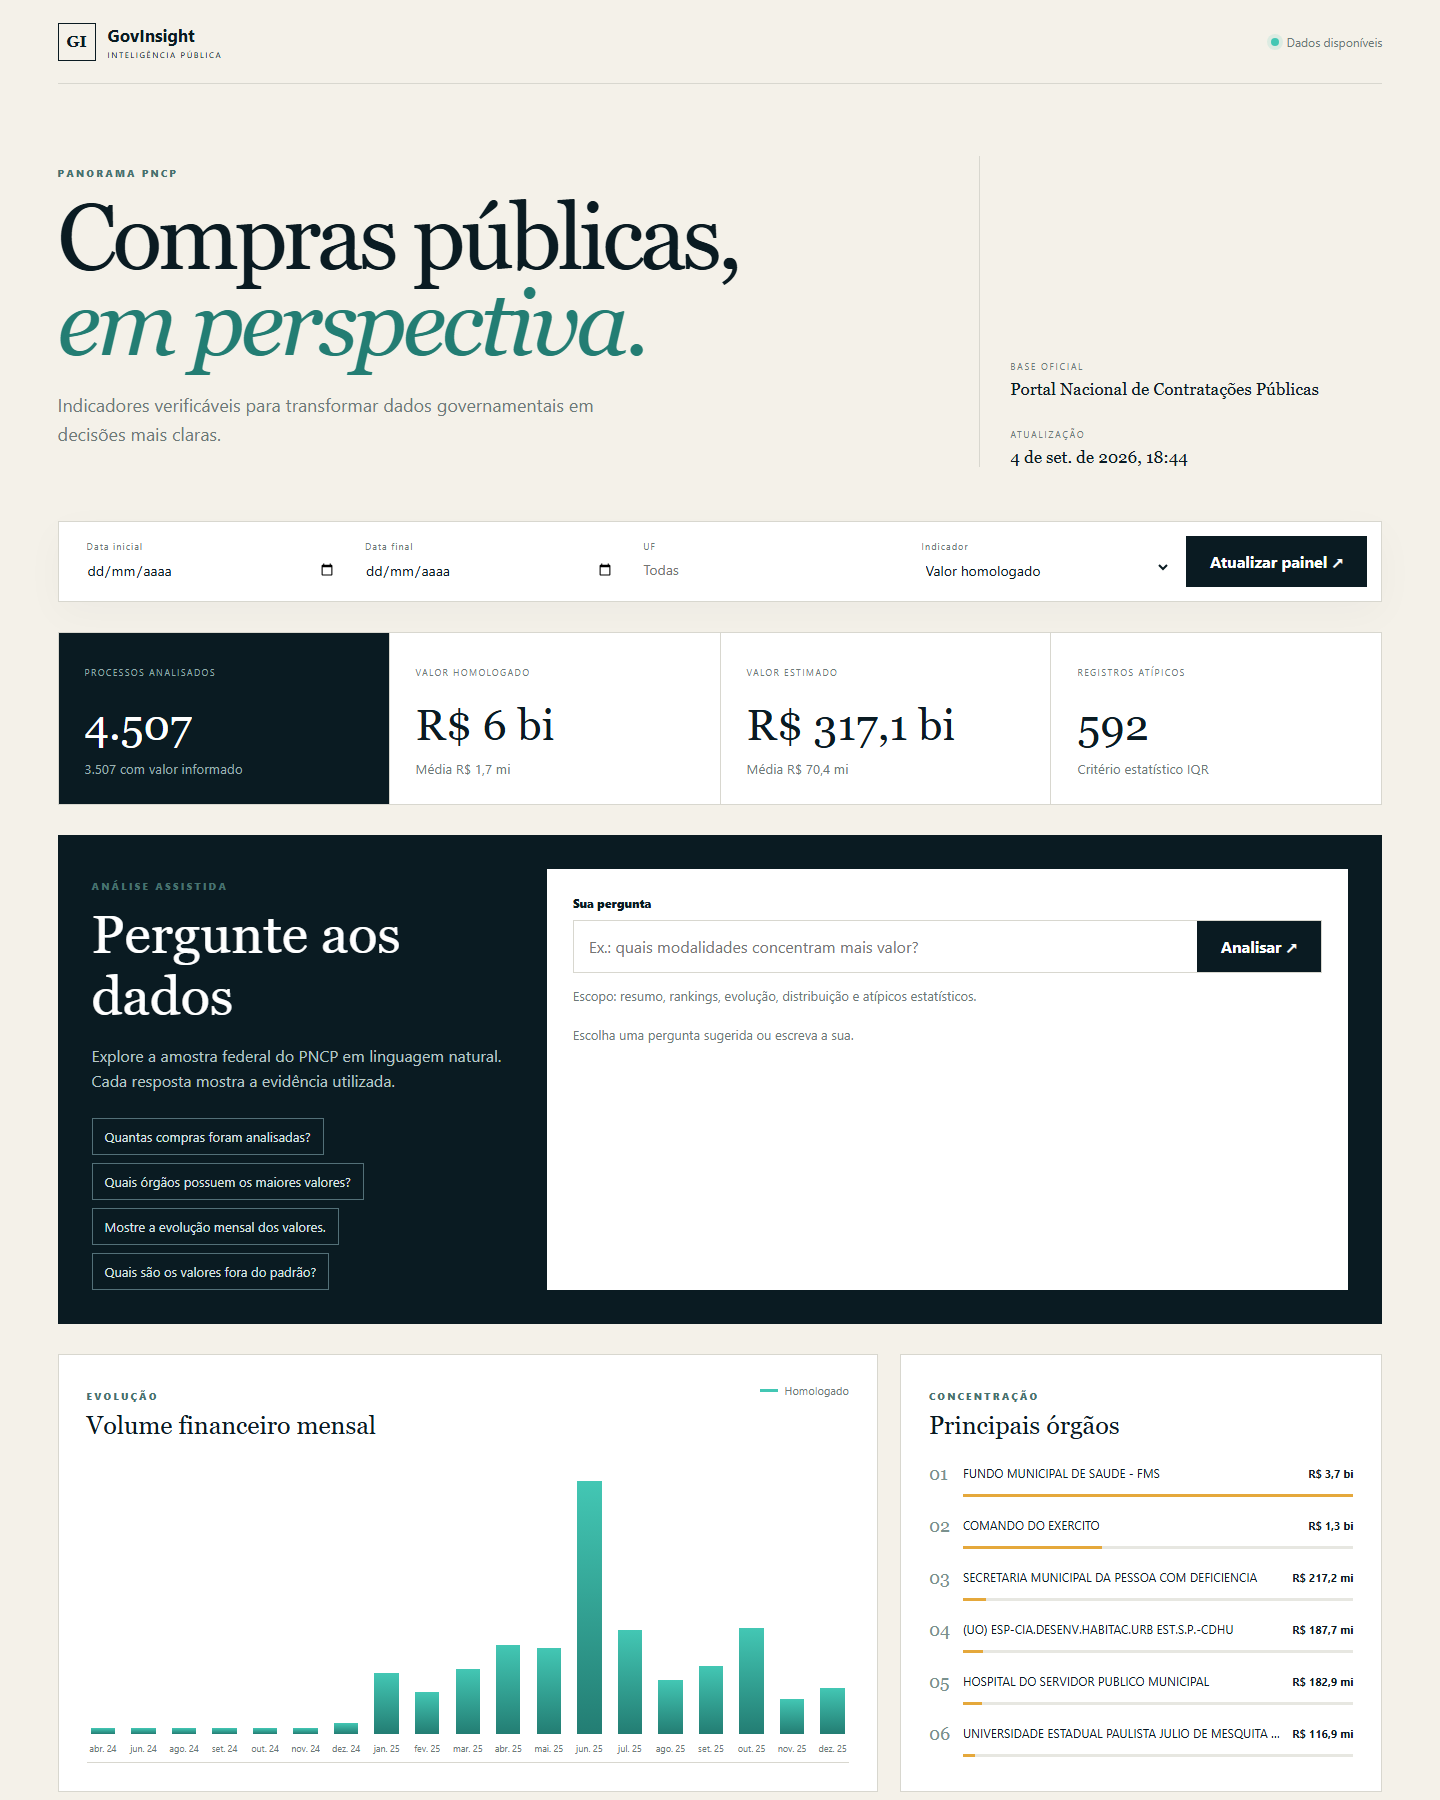
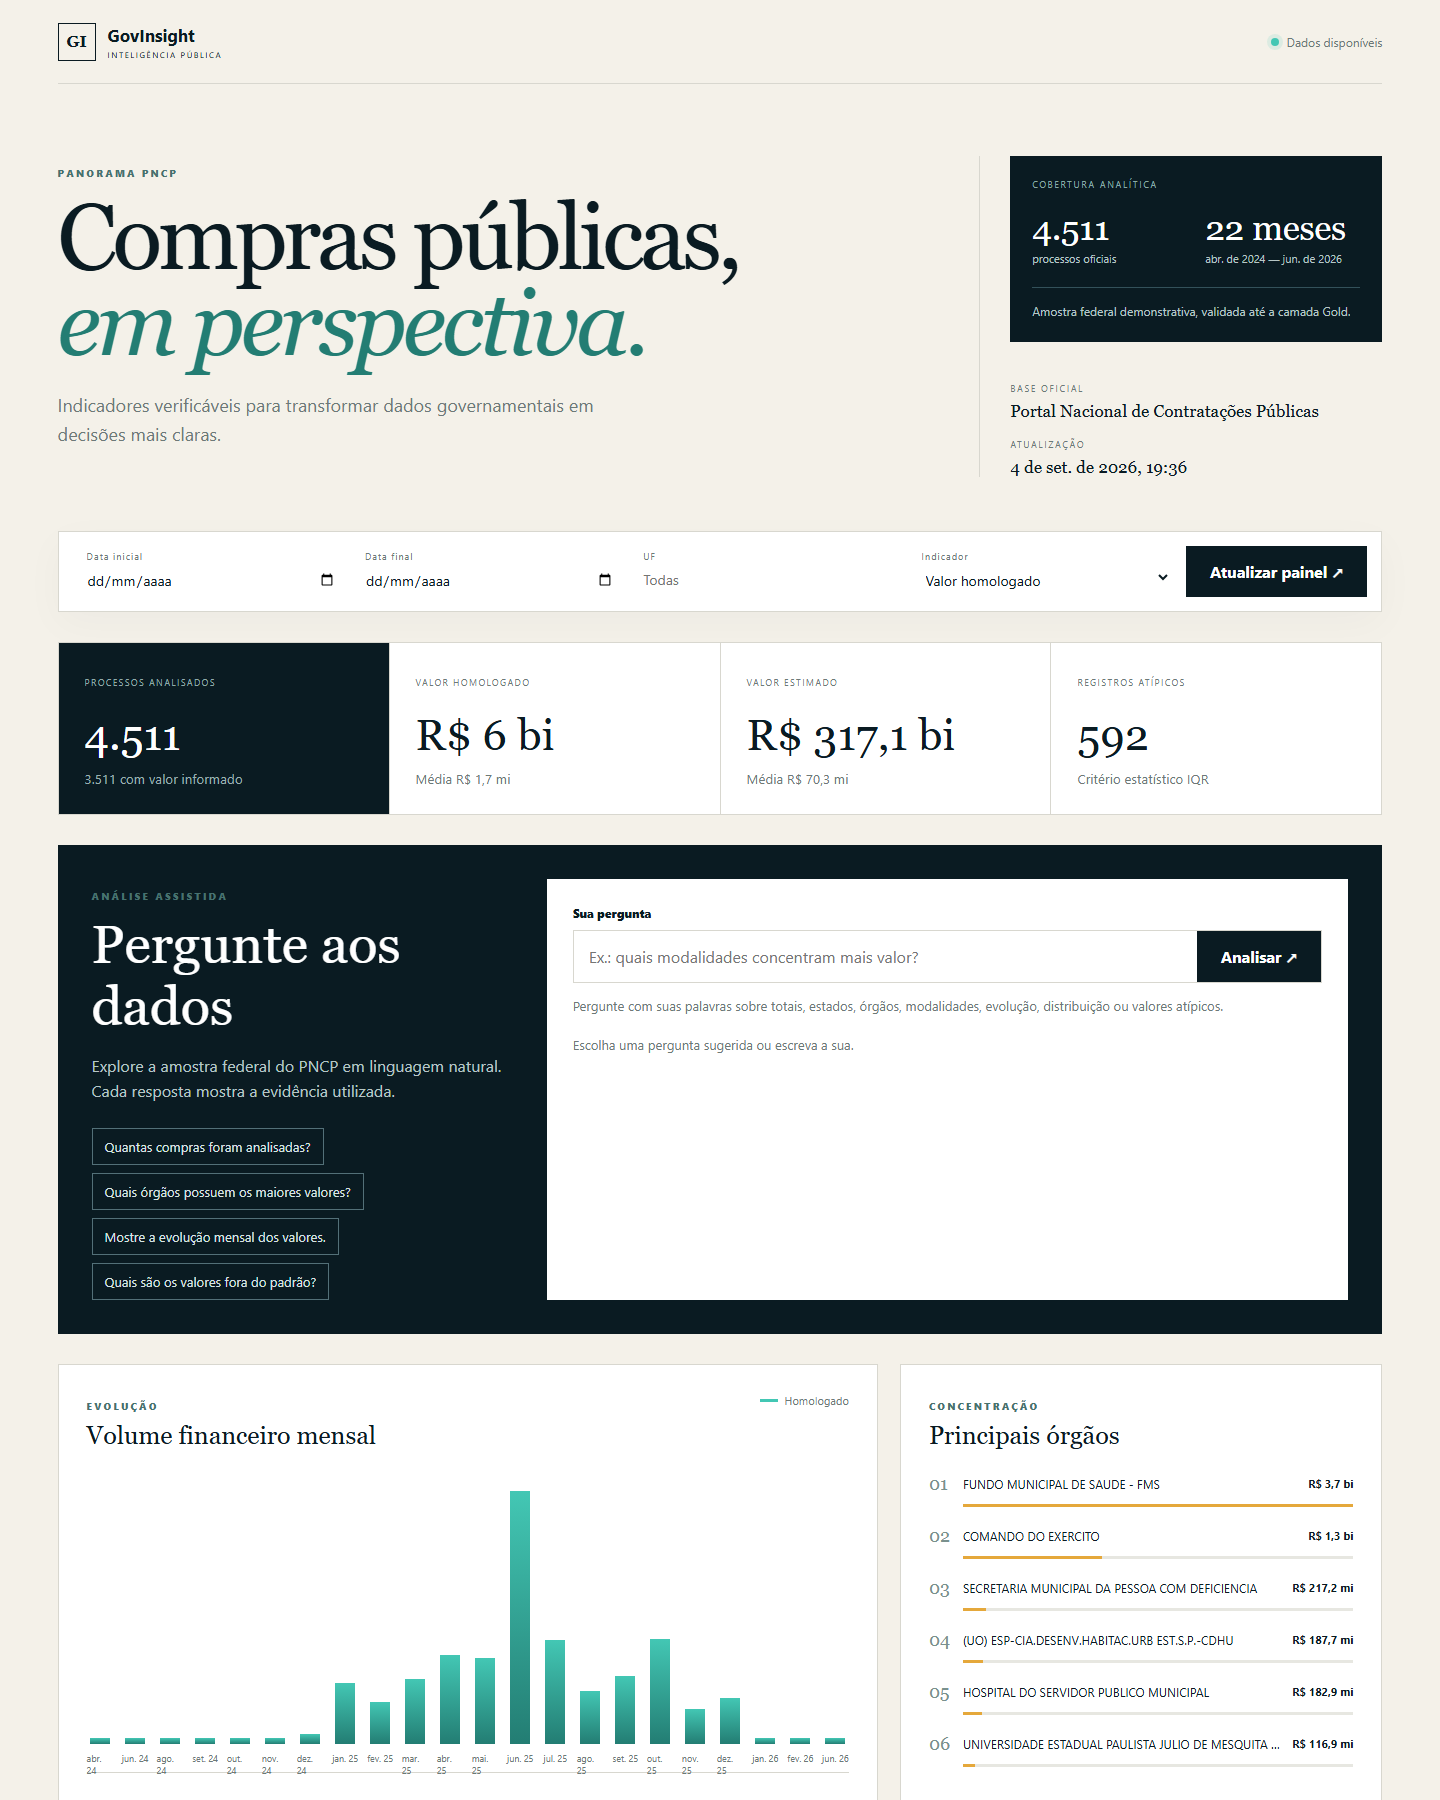
Atualização da demonstração com dados de 2026

Changed region(s): [[0.0312, 0.28, 0.9688, 0.9956], [0.6875, 0.0622, 0.9688, 0.28], [0.0625, 0.8089, 0.5938, 0.9956]]

diff --git a/src/govinsight/agents/query_plan.py b/src/govinsight/agents/query_plan.py
@@ -227,9 +227,33 @@ class RuleBasedQueryPlanner:
     """Fast, auditable baseline for the public demo and provider fallback."""
 
     _brazilian_ufs: ClassVar[set[str]] = {
-        "ac", "al", "ap", "am", "ba", "ce", "df", "es", "go", "ma", "mt",
-        "ms", "mg", "pa", "pb", "pr", "pe", "pi", "rj", "rn", "rs", "ro",
-        "rr", "sc", "sp", "se", "to",
+        "ac",
+        "al",
+        "ap",
+        "am",
+        "ba",
+        "ce",
+        "df",
+        "es",
+        "go",
+        "ma",
+        "mt",
+        "ms",
+        "mg",
+        "pa",
+        "pb",
+        "pr",
+        "pe",
+        "pi",
+        "rj",
+        "rn",
+        "rs",
+        "ro",
+        "rr",
+        "sc",
+        "sp",
+        "se",
+        "to",
     }
 
     def plan(self, question: str) -> QueryPlan:
@@ -249,8 +273,14 @@ class RuleBasedQueryPlanner:
             "uf": uf,
         }
         outlier_terms = (
-            "atíp", "atip", "outlier", "fora do padrão", "maior valor",
-            "maior compra", "maiores compras", "valores extremos",
+            "atíp",
+            "atip",
+            "outlier",
+            "fora do padrão",
+            "maior valor",
+            "maior compra",
+            "maiores compras",
+            "valores extremos",
         )
         if any(word in normalized for word in outlier_terms):
             return QueryPlan(intent=QueryIntent.OUTLIERS, **filters)
@@ -258,8 +288,16 @@ class RuleBasedQueryPlanner:
         if any(word in normalized for word in distribution_terms):
             return QueryPlan(intent=QueryIntent.DISTRIBUTION, **filters)
         trend_terms = (
-            "mensal", "mês", "evolução", "tendência", "ao longo do tempo",
-            "mudaram", "variação", "variacao", "histórico", "historico",
+            "mensal",
+            "mês",
+            "evolução",
+            "tendência",
+            "ao longo do tempo",
+            "mudaram",
+            "variação",
+            "variacao",
+            "histórico",
+            "historico",
         )
         if any(word in normalized for word in trend_terms):
             return QueryPlan(intent=QueryIntent.MONTHLY_TREND, **filters)

diff --git a/tests/unit/scripts/test_download_demo_data.py b/tests/unit/scripts/test_download_demo_data.py
@@ -1,0 +1,62 @@
+import shutil
+import subprocess
+import threading
+from http.server import BaseHTTPRequestHandler, ThreadingHTTPServer
+from pathlib import Path
+
+import pytest
+
+
+def test_download_script_supports_windows_powershell_and_bounded_range(tmp_path: Path) -> None:
+    shell = shutil.which("powershell") or shutil.which("pwsh")
+    if shell is None:
+        pytest.skip("PowerShell is unavailable")
+
+    payload = b"numero_controle_PNCP,data_publicacao_pncp\n123,2026-01-01\n"
+
+    class Handler(BaseHTTPRequestHandler):
+        def do_GET(self) -> None:
+            assert self.headers["Range"] == "bytes=0-63"
+            self.send_response(206)
+            self.send_header("Content-Type", "text/csv")
+            self.send_header("Content-Length", str(len(payload)))
+            self.end_headers()
+            self.wfile.write(payload)
+
+        def log_message(self, _format: str, *_args: object) -> None:
+            return
+
+    server = ThreadingHTTPServer(("127.0.0.1", 0), Handler)
+    thread = threading.Thread(target=server.serve_forever, daemon=True)
+    thread.start()
+    output = tmp_path / "demo.csv"
+    script = Path("scripts/download_demo_data.ps1").resolve()
+    try:
+        result = subprocess.run(
+            [
+                shell,
+                "-NoProfile",
+                "-ExecutionPolicy",
+                "Bypass",
+                "-File",
+                str(script),
+                "-Url",
+                f"http://127.0.0.1:{server.server_port}/demo.csv",
+                "-OutputPath",
+                str(output),
+                "-MaxBytes",
+                "64",
+            ],
+            capture_output=True,
+            text=True,
+            timeout=15,
+            check=False,
+        )
+    finally:
+        server.shutdown()
+        thread.join(timeout=5)
+        server.server_close()
+
+    assert result.returncode == 0, result.stderr
+    assert output.read_bytes() == payload
+    assert output.with_suffix(".csv.metadata.json").exists()

diff --git a/docs/deployment.md b/docs/deployment.md
@@ -1,0 +1,72 @@
+# Publicação gratuita: GitHub, Neon e Vercel
+
+O GovInsight AI separa aplicação e processamento para caber nos planos gratuitos sem executar uma
+carga de dados longa dentro de uma requisição web.
+
+```mermaid
+flowchart LR
+  PNCP[PNCP oficial] --> GH[GitHub Actions]
+  GH -->|conexão administrativa| N[(Neon PostgreSQL)]
+  V[Vercel · FastAPI + dashboard] -->|conexão somente leitura| N
+  R[Recrutador] --> V
+```
+
+## 1. Publicar no GitHub
+
+Crie um repositório público e envie a branch estável. O arquivo `app.py` na raiz é o ponto de
+entrada reconhecido pelo Vercel. Não envie `.env`, CSVs, dumps ou credenciais.
+
+## 2. Criar o banco gratuito no Neon
+
+Crie um projeto PostgreSQL e mantenha duas conexões:
+
+- **administrativa direta:** usada apenas pelas cargas e migrações no GitHub Actions;
+- **pooled somente leitura:** usada pela aplicação no Vercel.
+
+As duas URLs precisam exigir SSL. A aplicação aceita `sslmode=require` ou `sslmode=verify-full`.
+
+## 3. Configurar os segredos do GitHub
+
+Em **Settings → Secrets and variables → Actions**, cadastre:
+
+| Nome | Valor |
+|---|---|
+| `GOVINSIGHT_DATABASE_ADMIN_DSN` | URL administrativa direta do Neon com SSL |
+
+Execute uma vez o workflow **Load official demo data**. Ele aplica as migrações e carrega uma
+amostra do snapshot anual oficial mais recente, atualmente 2026. Depois, execute **Sync recent PNCP
+data** para validar a consulta incremental. Esse segundo workflow também roda semanalmente.
+
+## 4. Publicar no Vercel
+
+Importe o repositório pelo painel do Vercel. O FastAPI é detectado automaticamente pelo `app.py` e
+pela dependência registrada no projeto. Não defina framework, build command ou output directory.
+
+Cadastre estas variáveis nos ambientes Production e Preview:
+
+| Nome | Valor |
+|---|---|
+| `GOVINSIGHT_APP_ENV` | `production` |
+| `GOVINSIGHT_DATABASE_DSN` | URL pooled somente leitura do Neon com SSL |
+| `GOVINSIGHT_AGENT_PROVIDER` | `rules` |
+
+O modo `rules` não exige chave nem serviço pago. A integração opcional com OpenAI deve permanecer
+desativada enquanto uma chave não for deliberadamente configurada.
+
+## 5. Validar a publicação
+
+Confira, nesta ordem:
+
+1. `/health` responde com status saudável;
+2. `/analytics/summary` retorna contagens maiores que zero;
+3. `/dashboard/` mostra **Dados disponíveis**;
+4. uma pergunta livre retorna números e evidência;
+5. o workflow incremental termina sem falhar na etapa de qualidade.
+
+## Operação sem custo desnecessário
+
+- O Vercel serve o painel e consultas curtas; não executa ETL.
+- O GitHub Actions faz uma atualização semanal com sobreposição de sete dias.
+- O banco recebe UPSERTs idempotentes e não duplica uma contratação reprocessada.
+- Repositórios públicos sem atividade por 60 dias podem ter workflows agendados desativados pelo
+  GitHub; uma execução manual os reativa quando necessário.

diff --git a/README.md b/README.md
@@ -13,8 +13,8 @@ API, dashboard responsivo e um fluxo de agentes que só publica respostas apoiad
 
 ## Evidências rápidas
 
-- **4.507 contratações oficiais** carregadas na demonstração local, sem CSV ou banco no Git.
-- **19 meses de publicação** disponíveis no recorte federal da amostra.
+- **Milhares de contratações oficiais** carregadas na demonstração, sem CSV ou banco no Git.
+- Cobertura e período calculados dinamicamente a partir do recorte disponível no banco.
 - **30 casos versionados** no benchmark do agente, incluindo filtros e solicitações adversariais.
 - SQL analítico **parametrizado, somente leitura, limitado a 200 linhas e 5 segundos**.
 - Pipeline com reconciliação, linhagem, quarentena e bloqueio da Gold quando a qualidade falha.
@@ -77,6 +77,9 @@ $env:GOVINSIGHT_POSTGRES_HOST = "127.0.0.1"
 - **Atualização automática:** toda segunda-feira, o GitHub Actions consulta as modalidades ativas
   e reabre os últimos sete dias no endpoint de atualizações do PNCP antes de publicar a nova Gold.
 
+O guia [Publicação gratuita](docs/deployment.md) documenta o caminho completo entre GitHub, Neon,
+GitHub Actions e Vercel, incluindo a separação de credenciais por privilégio.
+
 As escolhas e os limites estão detalhados em [arquitetura](docs/architecture.md),
 [agentes](docs/agents.md), [dicionário de dados](docs/data_dictionary.md) e
 [análise da fonte](docs/data_source_analysis.md).
@@ -92,11 +95,12 @@ As escolhas e os limites estão detalhados em [arquitetura](docs/architecture.md
 
 ## Dados e limitações
 
-A demonstração usa uma amostra de compras federais do export oficial Compras.gov/PNCP de 2025,
-obtido do [repositório oficial de dados](https://repositorio.dados.gov.br/seges/comprasgov/anual/2025/).
-Ela serve para demonstrar a arquitetura e **não representa cobertura nacional completa**. Valores
-atípicos são sinais estatísticos pelo método IQR; **não indicam fraude ou irregularidade**. Valores
-estimados e homologados são mantidos separados, e valor homologado não é valor contratado.
+A demonstração usa uma amostra do snapshot anual mais recente do Compras.gov/PNCP — atualmente
+2026 — obtido do [repositório oficial de dados](https://repositorio.dados.gov.br/seges/comprasgov/anual/).
+Após a carga inicial, o workflow incremental consulta a API do PNCP semanalmente. O recorte serve
+para demonstrar a arquitetura e **não representa cobertura nacional completa**. Valores atípicos
+são sinais estatísticos pelo método IQR; **não indicam fraude ou irregularidade**. Valores estimados
+e homologados são mantidos separados, e valor homologado não é valor contratado.
 
 Quando o repositório estiver no GitHub, cadastre o segredo
 `GOVINSIGHT_DATABASE_ADMIN_DSN` com a conexão SSL do Neon. O workflow
